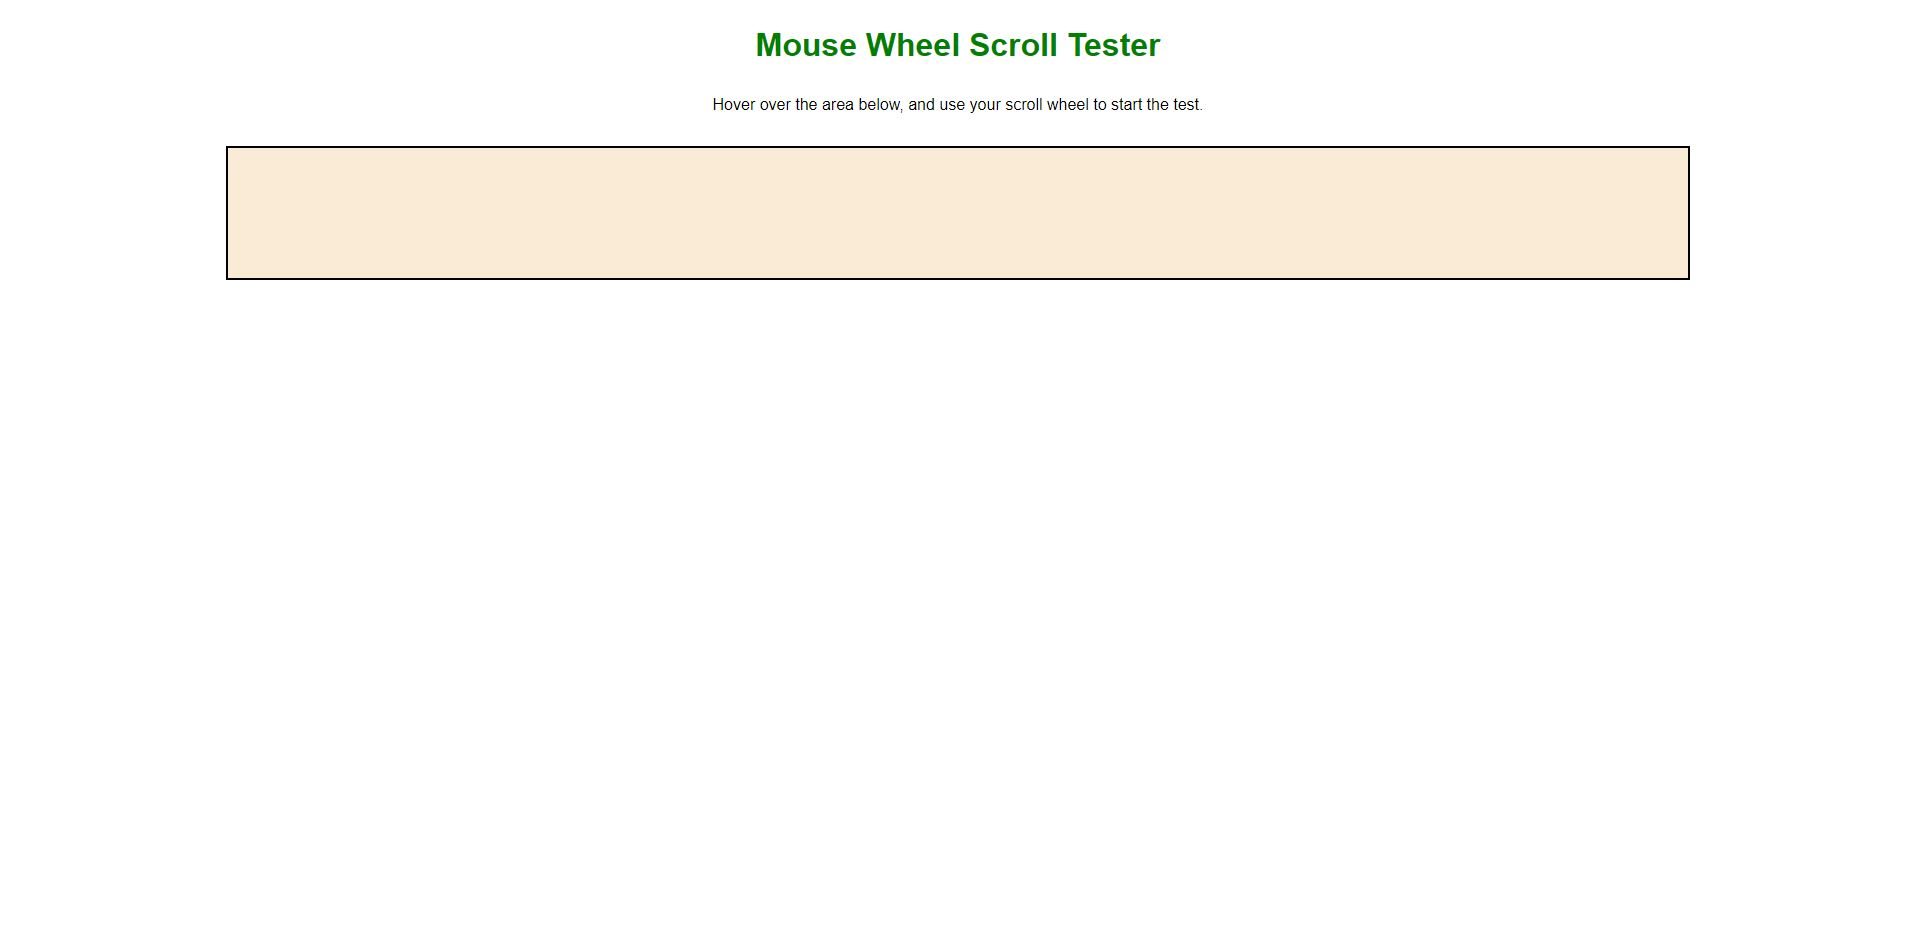
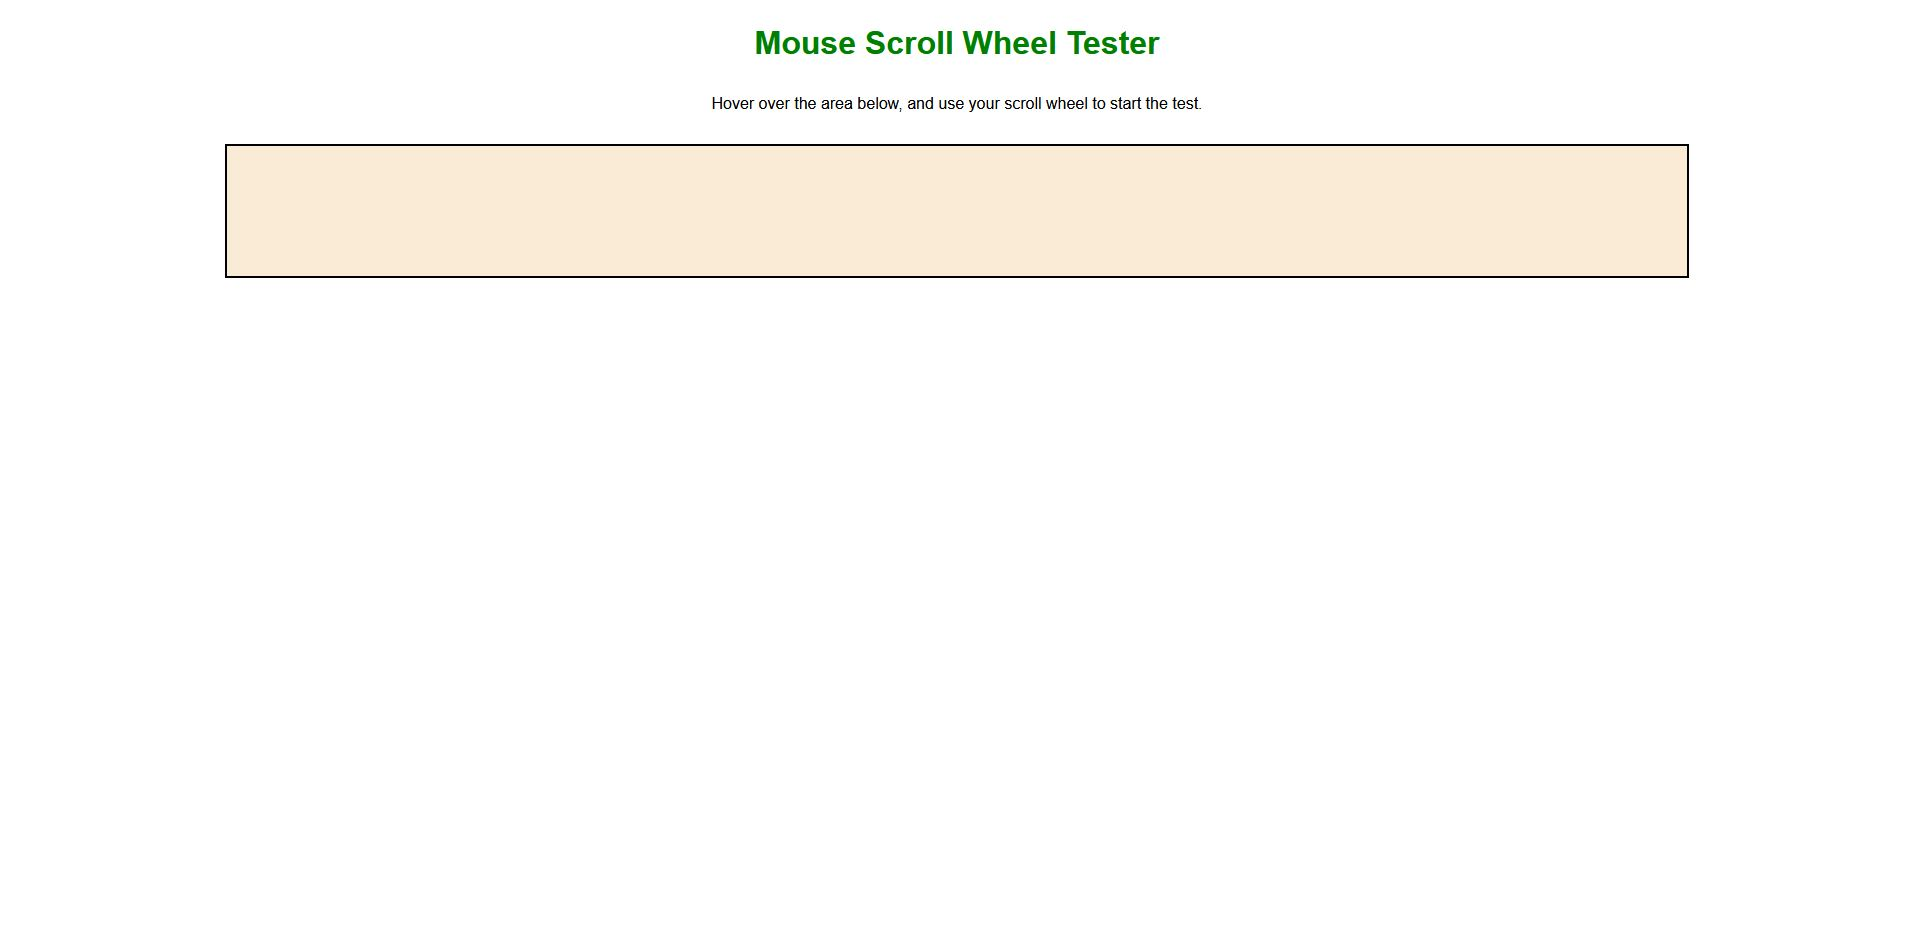
Add files via upload

Changed region(s): [[0.1234, 0.0935, 0.8944, 0.3118], [0.3701, 0.0312, 0.6168, 0.0624]]

diff --git a/websites/portfolio-2.0/index.html b/websites/portfolio-2.0/index.html
@@ -66,7 +66,7 @@
 
     <a href="http://easybankintl.netlify.app" class="project easybank">Easybank Landing Page</a>
 
-    <a href="https://scrollwheeltester.netlify.app/" class="project scroll-detection">Mouse Wheel Scroll Tester</a>
+    <a href="https://scrollwheeltester.netlify.app/" class="project scroll-detection">Mouse Scroll Wheel Tester</a>
 
     <a href="http://alexdigitalclock.netlify.app" class="project digital-clock">Digital Clock App</a>
      
